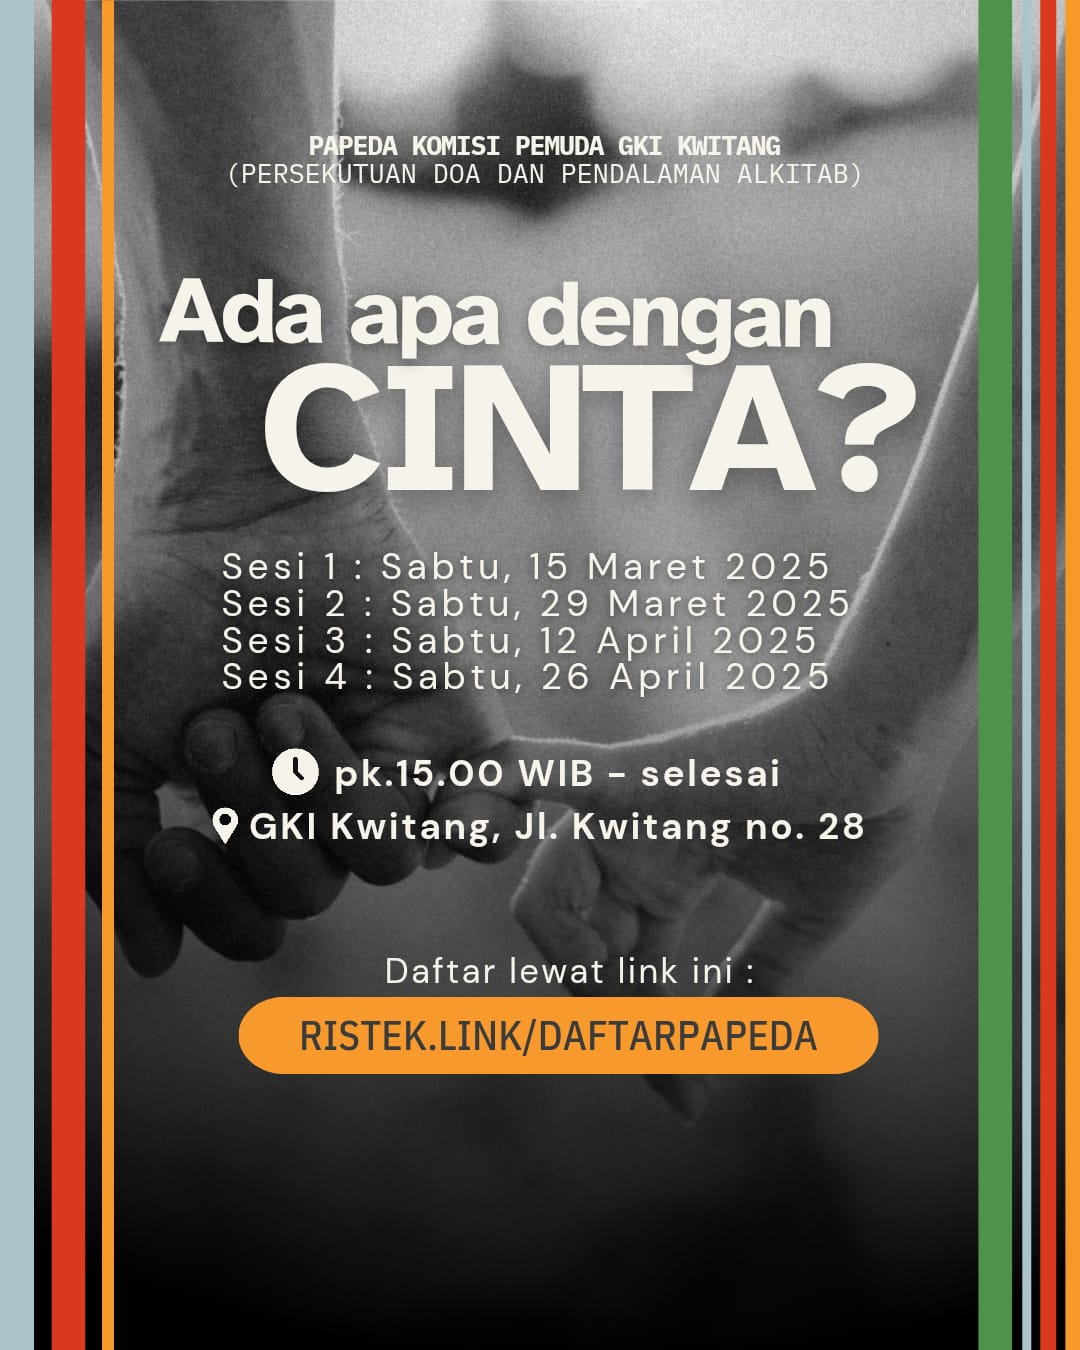
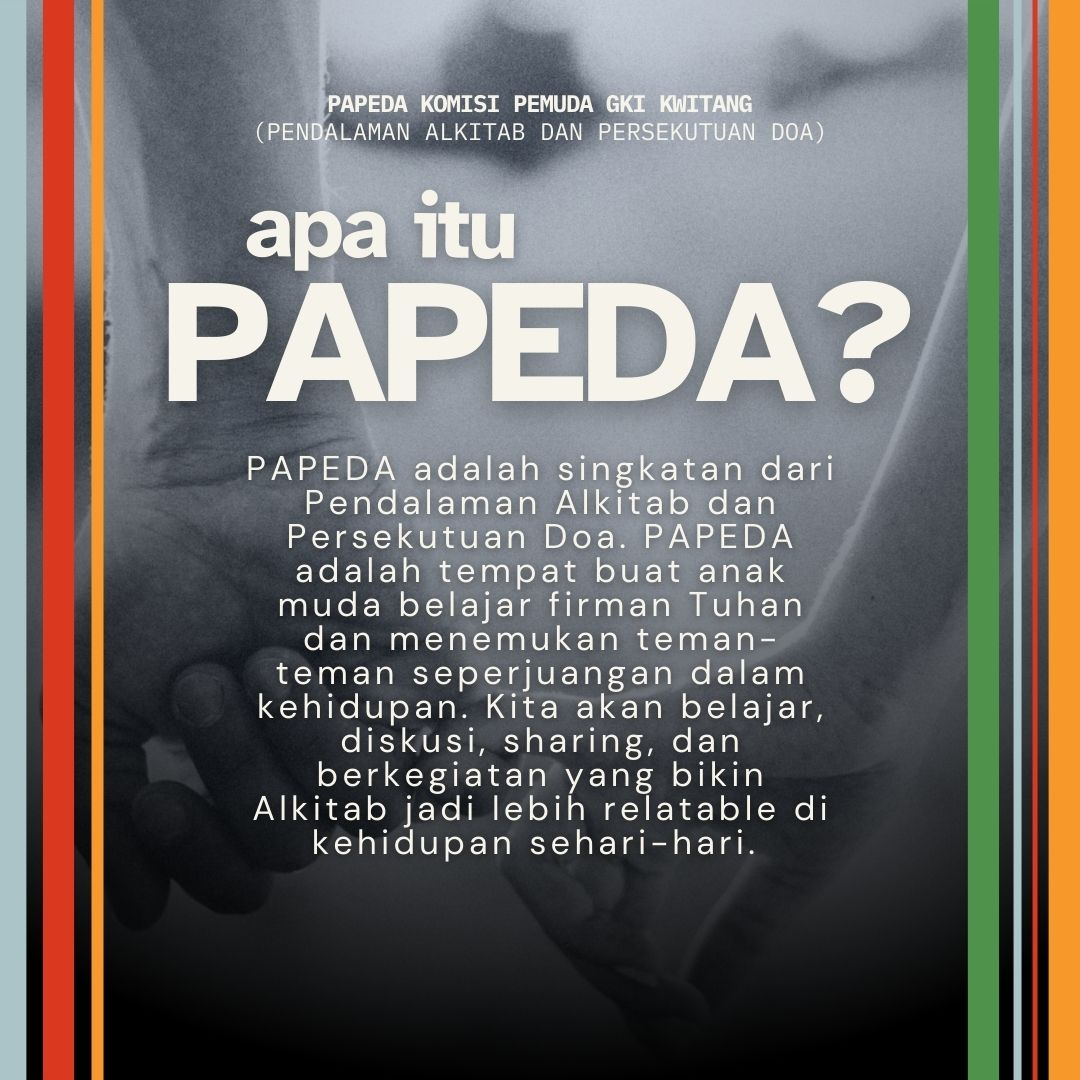
add contact person, social media, change images

diff --git a/index.html b/index.html
@@ -5,6 +5,7 @@
     <meta name="viewport" content="width=device-width, initial-scale=1.0">
     <title>PAPEDA (Pendalaman Alkitab dan Persekutuan Doa)</title>
     <link rel="stylesheet" href="styles.css">
+    <link rel="stylesheet" href="https://cdnjs.cloudflare.com/ajax/libs/font-awesome/5.15.4/css/all.min.css">
     <script defer src="script.js"></script>
 </head>
 <body>
@@ -20,10 +21,13 @@
                     <img src="poster1.jpg" alt="Poster Acara Papeda 1">
                 </div>
                 <div class="carousel-slide">
-                    <img src="poster1.jpg" alt="Poster Acara Papeda 2">
+                    <img src="poster2.jpg" alt="Poster Acara Papeda 2">
                 </div>
                 <div class="carousel-slide">
-                    <img src="poster1.jpg" alt="Poster Acara Papeda 3">
+                    <img src="poster3.jpg" alt="Poster Acara Papeda 3">
+                </div>
+                <div class="carousel-slide">
+                    <img src="poster4.jpg" alt="Poster Acara Papeda 4">
                 </div>
             </div>
             
@@ -32,6 +36,7 @@
             
             <div class="carousel-indicators">
                 <span class="indicator active"></span>
+                <span class="indicator"></span>
                 <span class="indicator"></span>
                 <span class="indicator"></span>
             </div>
@@ -49,34 +54,90 @@
             <div class="faq-item">
                 <div class="faq-question">Kapan dan di mana Papeda ini?</div>
                 <div class="faq-answer">
-                    <p>di kwitang :)</p>
-                </div>
-            </div>
-            
-            <div class="faq-item">
-                <div class="faq-question">Lorem</div>
-                <div class="faq-answer">
-                    <p>Lorem</p>
-                </div>
-            </div>
-            
-            <div class="faq-item">
-                <div class="faq-question">Lorem</div>
-                <div class="faq-answer">
-                    <p>Lorem</p>
+                    <p>PAPEDA diadakan 2 minggu sekali <b>pada jam 15:00 - selesai</b> sesuai jadwal yang tertera. Lokasi biasanya di lantai 3 GKI Kwitang. Info lebih lanjut soal tempat dan jadwal bakal diumumin di grup atau IG yaa!
+                    </p>
                     <ul>
-                        <li>Lorem</li>
-                        <li>Lorem</li>
-                        <li>Lorem</li>
-                        <li>Lorem</li>
+                        <li>📅 <b>Week 1</b>: Sabtu, 15 Maret 2025<br>🎯Tema: Ada apa dengan Daud: Cerita tentang Tuhan dan aku</li>
+                        <li>📅 <b>Week 2</b>: Sabtu, 29 Maret 2025<br>🎯Tema: Ada apa dengan Salomo: Cerita tentang Aku dan Diriku</li>
+                        <li>📅 <b>Week 3</b>: Sabtu, 12 April 2025<br>🎯Tema: Tema: Ada apa dengan Yusuf: Cerita tentang Aku dan Sesama</li>
+                        <li>📅 <b>Week 4</b>: Sabtu, 26 April 2025<br>🎯Tema:  Ada apa dengan Rut dan Boas: Cerita tentang Aku dan Kamu (ea)</li>
                     </ul>
+                </div>
+            </div>
+            
+            <div class="faq-item">
+                <div class="faq-question">Kalau daftar harus ikut semua sesinya kah?</div>
+                <div class="faq-answer">
+                    <p>Nggak harus! PAPEDA itu fleksibel, kamu bisa ikut kapan aja sesuai ketersediaanmu. Tapi, kalau ikut terus, pasti lebih dapet manfaatnya karena sesi-sesi kita saling nyambung.</p>
+                </div>
+            </div>
+            
+            <div class="faq-item">
+                <div class="faq-question">Siapa aja yang boleh ikut?</div>
+                <div class="faq-answer">
+                    <p>Semua orang boleh ikut! Mau kamu jemaat GKI Kwitang atau bukan, masih baru atau udah sering datang, PAPEDA terbuka buat siapa aja yang pengen belajar bareng soal firman Tuhan dengan cara yang santai tapi mendalam.</p>
+                </div>
+            </div>
+            
+            <div class="faq-item">
+                <div class="faq-question">Harus daftar dulu atau bisa langsung datang?</div>
+                <div class="faq-answer">
+                    <p>Bisa langsung datang, tapi lebih baik daftar dulu biar kita bisa atur tempat dan materi dengan lebih rapi. Link pendaftaran bisa diakses <a href="https://ristek.link/daftarPAPEDA">di sini</a> yaa.</p>
+                </div>
+            </div>
+            
+            <div class="faq-item">
+                <div class="faq-question">Kalau ketinggalan sesi sebelumnya, masih bisa ikut?</div>
+                <div class="faq-answer">
+                    <p>Boleh banget dongg :D Setiap sesi bisa tetap bisa diikuti meskipun kamu baru pertama kali datang. Kalau mau nge-recap, bisa cek rangkuman materi yang biasanya kita share setelah pertemuan.</p>
+                </div>
+            </div>
+            
+            
+            <div class="faq-item">
+                <div class="faq-question">Aku pemalu dan nggak terlalu bisa sharing, masih bisa ikut?</div>
+                <div class="faq-answer">
+                    <p>Pastinya bisa! Kita nggak maksa siapa pun buat ngomong kalau nggak nyaman. Kamu bisa dengerin dulu, belajar pelan-pelan, dan sharing kalau udah siap. PAPEDA tempat yang safe buat semua orang!</p>
                 </div>
             </div>
             
         </section>
 
+        <section class="contact-social">
+            <h2>Contact Us!</h2>
+            <p>Masih mau tanya-tanya? Yuk, langsung aja hubungi:</p>
+            
+            <div class="contact-info">
+                <div class="contact-card">
+                    <h3>Theo</h3>
+                    <p class="phone">0858-8816-7629</p>
+                </div>
+                
+                <div class="contact-card">
+                    <h3>Hizkia</h3>
+                    <p class="phone">0877-4145-1005</p>
+                </div>
+                
+            </div>
+            
+            <h2>Follow, yuk!</h2>
+            <p>Biar kamu bisa dapet update tentang kegiatan-kegiatan kompa terbaru!</p>
+            
+            <div class="social-media">
+                <a href="https://instagram.com/kompa.kwitang" target="_blank" class="social-btn instagram-btn">
+                    <i class="fab fa-instagram social-icon"></i>
+                    <span>@kompa.kwitang</span>
+                </a>
+                
+                <a href="https://chat.whatsapp.com/GkGweN5Etkk2WAQg0zyxUW" target="_blank" class="social-btn whatsapp-btn">
+                    <i class="fab fa-whatsapp social-icon"></i>
+                    <span>Grup WhatsApp Kompa</span>
+                </a>
+            </div>
+        </section>
+
         <footer>
-            <p>&copy; 2025 Papeda. Made with love.</p>
+            <p>&copy; 2025 PAPEDA. Made with love.</p>
         </footer>
     </div>
 

diff --git a/styles.css b/styles.css
@@ -302,3 +302,121 @@ footer {
         font-size: 1rem;
     }
 }
+
+/* Contact & Social Media Section */
+.contact-social {
+    background-color: white;
+    padding: 40px;
+    border-radius: 10px;
+    box-shadow: 0 5px 15px rgba(0, 0, 0, 0.05);
+    margin-top: 30px;
+    margin-bottom: 30px;
+    text-align: center;
+}
+
+.contact-social h2 {
+    font-size: 2rem;
+    margin-bottom: 20px;
+    color: #ff7e5f;
+}
+
+.contact-social p {
+    margin-bottom: 15px;
+    font-size: 1.1rem;
+}
+
+.contact-info {
+    display: flex;
+    flex-wrap: wrap;
+    justify-content: center;
+    gap: 30px;
+    margin-bottom: 30px;
+}
+
+.contact-card {
+    background: #f9f9f9;
+    padding: 20px;
+    border-radius: 10px;
+    width: 250px;
+    text-align: center;
+    box-shadow: 0 3px 10px rgba(0, 0, 0, 0.05);
+    transition: transform 0.3s;
+}
+
+.contact-card:hover {
+    transform: translateY(-5px);
+}
+
+.contact-card h3 {
+    margin-bottom: 10px;
+    color: #ff7e5f;
+}
+
+.contact-card p {
+    margin-bottom: 10px;
+}
+
+.contact-card .phone {
+    font-weight: bold;
+    color: #333;
+}
+
+.social-media {
+    display: flex;
+    justify-content: center;
+    gap: 20px;
+    margin-top: 20px;
+}
+
+.social-btn {
+    display: flex;
+    align-items: center;
+    gap: 10px;
+    padding: 12px 25px;
+    border-radius: 50px;
+    color: white;
+    text-decoration: none;
+    font-weight: 600;
+    transition: all 0.3s;
+}
+
+.social-btn:hover {
+    transform: translateY(-3px);
+}
+
+.instagram-btn {
+    background: linear-gradient(45deg, #f09433, #e6683c, #dc2743, #cc2366, #bc1888);
+    box-shadow: 0 4px 10px rgba(220, 39, 67, 0.4);
+}
+
+.whatsapp-btn {
+    background: #25D366;
+    box-shadow: 0 4px 10px rgba(37, 211, 102, 0.4);
+}
+
+.social-icon {
+    font-size: 1.5rem;
+}
+
+/* Responsive adjustments */
+@media (max-width: 768px) {
+    .contact-info {
+        gap: 20px;
+    }
+    
+    .contact-card {
+        width: 100%;
+        max-width: 300px;
+    }
+    
+    .social-media {
+        flex-direction: column;
+        align-items: center;
+        gap: 15px;
+    }
+    
+    .social-btn {
+        width: 80%;
+        justify-content: center;
+    }
+}
